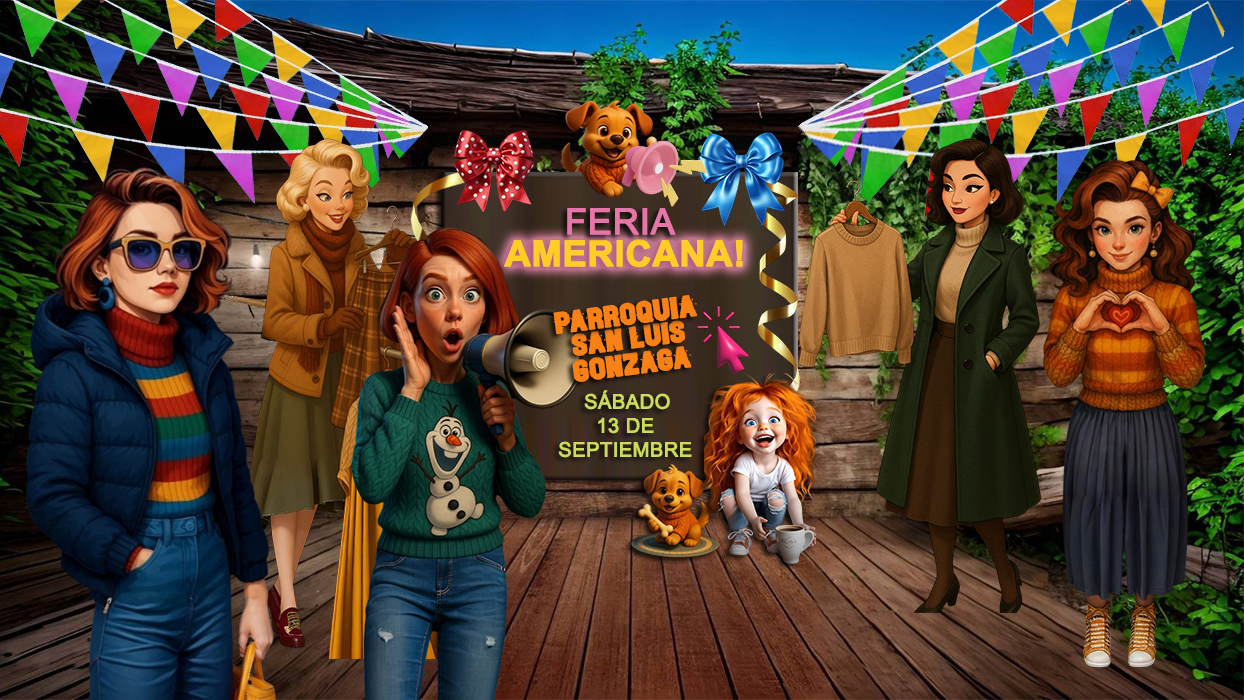
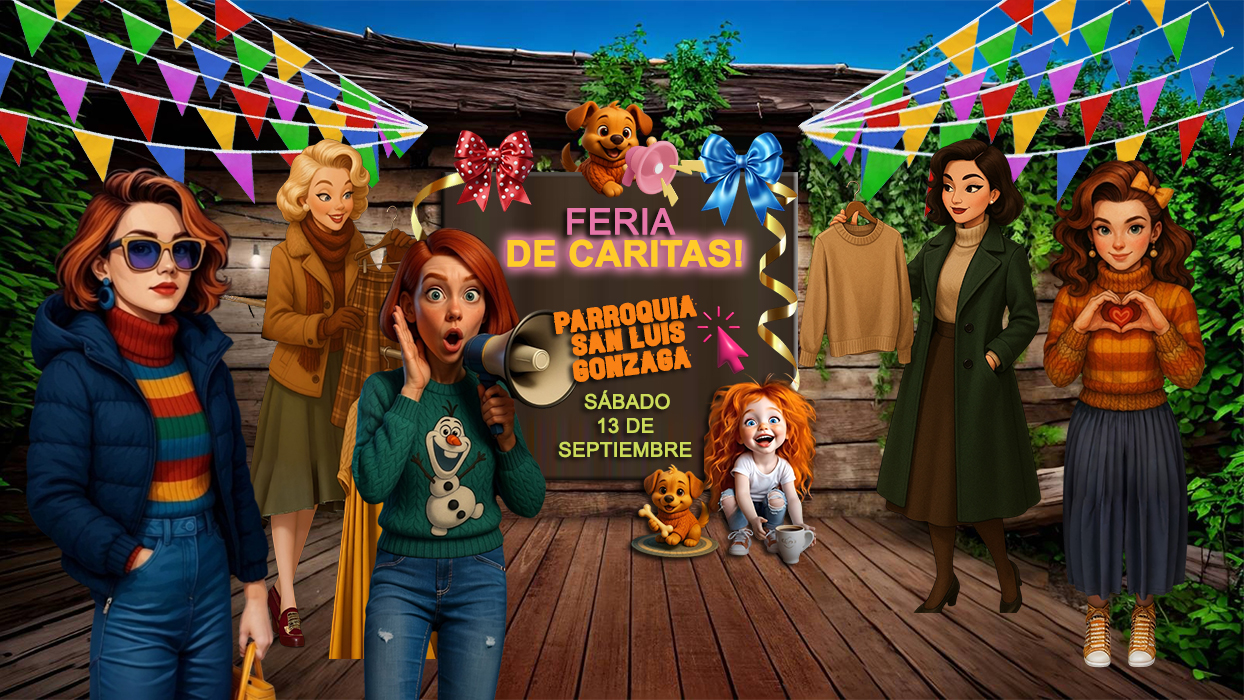
feria de caritas

Changed region(s): [[0.3971, 0.33, 0.6109, 0.39]]

diff --git a/index.html b/index.html
@@ -1941,7 +1941,7 @@ align-items-center d-none d-lg-flex" style="gap: 0.7rem;">
 <div style=" padding-top: 30px;"> 
   <div id="feria-americana" class="feria-section text-center" style="width: 90vw; max-width: 90%; margin: 0 auto;"> 
     <div class="feria-card card-body" style="z-index: 10;">
-      <h2 class="feria-title" style="line-height: 0.8; font-size: 3.5em;">GRAN FERIA <span>AMERICANA!</span></h2>
+      <h2 class="feria-title" style="line-height: 0.8; font-size: 3.5em;">FERIA <span>DE CARITAS!</span></h2>
       <p class="feria-info texto3d" style="font-size: 2em; font-weight: bold; color: #ff6f00; line-height: 1;">
         PARROQUIA SAN LUIS GONZAGA
       </p>
